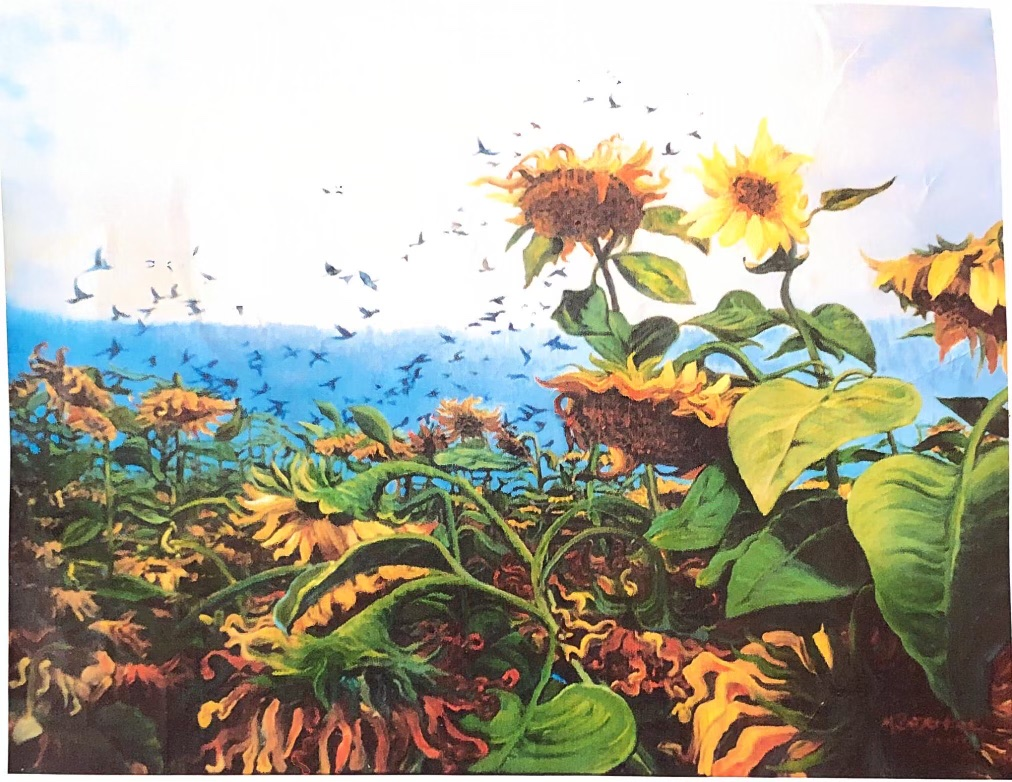
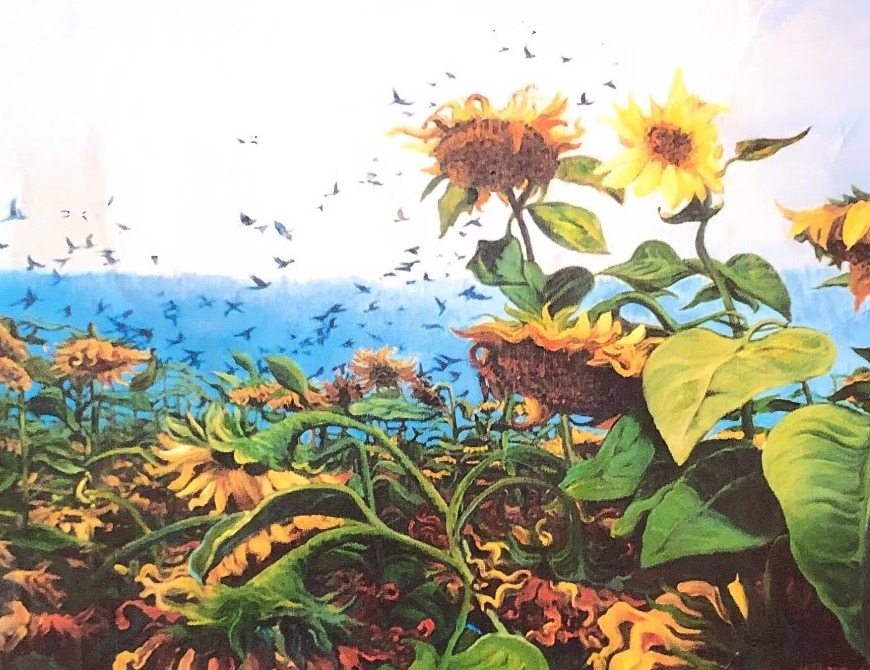
Add 12 new artworks, album covers, music photos, and YouTube links
Expanded gallery with trains, tugboat, B-17, kimono, garden, seaplane,
and more. Added Queensryche and Heir Apparent (30th Anniversary) album
covers to music section. Added black light gallery (Jethro Tull, Blue
Oyster Cult), Matt the Hoopla live photos and YouTube links. Cropped
photos to isolate artwork from scan borders.

diff --git a/index.html b/index.html
@@ -35,7 +35,7 @@
   <section class="quote-section reveal">
     <div class="quote-mark" aria-hidden="true">&ldquo;</div>
     <blockquote>
-      One of the wonderful parts about living with Matt's paintings is that I see new things every time I look at the picture. There are so many dimensions, so many little areas of magic, that I rediscover his work constantly.
+      &ldquo;One of the wonderful parts about living with Matt's paintings is that I see new things every time I look at the picture. There are so many dimensions, so many little areas of magic, that I rediscover his work constantly.&rdquo;
     </blockquote>
   </section>
 
@@ -73,6 +73,66 @@
         </div>
         <figcaption>Lily Pond</figcaption>
       </figure>
+      <figure class="gallery-item reveal" data-delay="2">
+        <div class="gallery-frame">
+          <img src="images/artwork-10.jpg" alt="Locomotive 8325, a blue and gray diesel train engine" loading="lazy">
+        </div>
+        <figcaption>Engine 8325</figcaption>
+      </figure>
+      <figure class="gallery-item reveal" data-delay="0">
+        <div class="gallery-frame">
+          <img src="images/artwork-6.jpg" alt="Retro diner with a classic car mounted on the roof and red umbrellas" loading="lazy">
+        </div>
+        <figcaption>Zesto</figcaption>
+      </figure>
+      <figure class="gallery-item reveal" data-delay="1">
+        <div class="gallery-frame">
+          <img src="images/artwork-9.jpg" alt="Red and white tugboat in a Pacific Northwest harbor" loading="lazy">
+        </div>
+        <figcaption>Tugboat</figcaption>
+      </figure>
+      <figure class="gallery-item reveal" data-delay="2">
+        <div class="gallery-frame">
+          <img src="images/artwork-12.jpg" alt="B-17 Flying Fortress bomber with nose art on a sunny tarmac" loading="lazy">
+        </div>
+        <figcaption>B-17 Flying Fortress</figcaption>
+      </figure>
+      <figure class="gallery-item reveal" data-delay="0">
+        <div class="gallery-frame">
+          <img src="images/artwork-11.jpg" alt="Ballard streetscape in autumn with a fire hydrant and golden trees" loading="lazy">
+        </div>
+        <figcaption>Ballard Street</figcaption>
+      </figure>
+      <figure class="gallery-item reveal" data-delay="1">
+        <div class="gallery-frame">
+          <img src="images/artwork-13.jpg" alt="Garden statue among pink and purple flowers" loading="lazy">
+        </div>
+        <figcaption>Garden Madonna</figcaption>
+      </figure>
+      <figure class="gallery-item reveal" data-delay="2">
+        <div class="gallery-frame">
+          <img src="images/artwork-14.jpg" alt="Girl in a red kimono holding a decorated fan" loading="lazy">
+        </div>
+        <figcaption>Red Kimono</figcaption>
+      </figure>
+      <figure class="gallery-item reveal" data-delay="0">
+        <div class="gallery-frame">
+          <img src="images/artwork-17.jpg" alt="Seaplane silhouette against a vivid red and orange sunset over water" loading="lazy">
+        </div>
+        <figcaption>Seaplane at Sunset</figcaption>
+      </figure>
+      <figure class="gallery-item reveal" data-delay="1">
+        <div class="gallery-frame">
+          <img src="images/artwork-7.jpg" alt="Santa Claus walking past a whimsical red building" loading="lazy">
+        </div>
+        <figcaption>Christmas on the Farm</figcaption>
+      </figure>
+      <figure class="gallery-item reveal" data-delay="2">
+        <div class="gallery-frame">
+          <img src="images/artwork-8.jpg" alt="Organist playing a theater pipe organ with a silent film actress projected above" loading="lazy">
+        </div>
+        <figcaption>The Organist</figcaption>
+      </figure>
     </div>
   </section>
 
@@ -106,11 +166,63 @@
     <div class="music-layout">
       <h2 class="section-title reveal"><span>Music &amp; Album Art</span></h2>
       <div class="music-content reveal">
-        <p>Before dedicating himself to painting full-time, Matt's art career began in the Seattle metal scene of the 1980s. He created the cover illustration for <strong>Queensr&yuml;che's debut album <em>The Warning</em></strong> (1984) and the original artwork and logo for <strong>Heir Apparent's <em>Graceful Inheritance</em></strong> (1985) &mdash; his cover concept was later featured on the 30th Anniversary Edition LP reissue.</p>
+        <p>Before dedicating himself to painting full-time, Matt's art career began in the Seattle metal scene of the 1980s. He created the cover illustration for <strong>Queensr&yuml;che's debut album <em>The Warning</em></strong> (1984) and the original artwork and logo for <strong>Heir Apparent's <em>Graceful Inheritance</em></strong> (1986) &mdash; his cover concept was later featured on the 30th Anniversary Edition LP reissue.</p>
 
-        <p>Beyond painting, Matt has created black light artworks &mdash; gesso and ultraviolet tempera on black paper &mdash; depicting early 1970s rock musicians.</p>
+        <div class="album-covers">
+          <figure>
+            <img src="images/album-the-warning.jpg" alt="Queensryche - The Warning album cover, illustrated by Matt Bazemore" loading="lazy">
+            <figcaption>Queensr&yuml;che &mdash; The Warning (1984)</figcaption>
+          </figure>
+          <figure>
+            <img src="images/album-graceful-inheritance.jpg" alt="Heir Apparent - Graceful Inheritance album cover, illustrated by Matt Bazemore" loading="lazy">
+            <figcaption>Heir Apparent &mdash; Graceful Inheritance (30th Anniversary Edition)</figcaption>
+          </figure>
+        </div>
 
-        <p>Matt is also a talented drummer who has played since high school. He and his brother Don Bazemore Jr. performed together in <strong>Matt the Hoopla</strong>.</p>
+        <p>Beyond painting, Matt has created black light artworks &mdash; gesso and ultraviolet tempera on black paper &mdash; depicting early 1970s rock musicians:</p>
+
+        <div class="blacklight-gallery">
+          <figure class="gallery-item" data-delay="0">
+            <div class="gallery-frame">
+              <img src="images/artwork-15.jpg" alt="Jethro Tull's Ian Anderson playing flute on stage, rendered in black light paint" loading="lazy">
+            </div>
+            <figcaption>Jethro Tull</figcaption>
+          </figure>
+          <figure class="gallery-item" data-delay="1">
+            <div class="gallery-frame">
+              <img src="images/artwork-16.jpg" alt="Blue Oyster Cult performing on stage, rendered in blue and purple black light paint" loading="lazy">
+            </div>
+            <figcaption>Blue &Ouml;yster Cult</figcaption>
+          </figure>
+        </div>
+
+        <p>Matt is also a talented drummer who has played since high school. He and his brother Don Bazemore Jr. performed together in <strong>Matt the Hoopla</strong>. Watch them play:</p>
+
+        <div class="video-links">
+          <a href="https://www.youtube.com/watch?v=E9E9QdnNPu4" target="_blank" rel="noopener">
+            <svg width="18" height="18" viewBox="0 0 24 24" fill="currentColor"><path d="M23.498 6.186a2.996 2.996 0 0 0-2.112-2.12C19.505 3.546 12 3.546 12 3.546s-7.505 0-9.386.52A2.996 2.996 0 0 0 .502 6.186C0 8.07 0 12 0 12s0 3.93.502 5.814a2.996 2.996 0 0 0 2.112 2.12c1.881.52 9.386.52 9.386.52s7.505 0 9.386-.52a2.996 2.996 0 0 0 2.112-2.12C24 15.93 24 12 24 12s0-3.93-.502-5.814z"/><path d="M9.545 15.568V8.432L15.818 12l-6.273 3.568z" fill="#fff"/></svg>
+            Matt the Hoopla Live
+          </a>
+          <a href="https://www.youtube.com/watch?v=JxC1whvCfL4" target="_blank" rel="noopener">
+            <svg width="18" height="18" viewBox="0 0 24 24" fill="currentColor"><path d="M23.498 6.186a2.996 2.996 0 0 0-2.112-2.12C19.505 3.546 12 3.546 12 3.546s-7.505 0-9.386.52A2.996 2.996 0 0 0 .502 6.186C0 8.07 0 12 0 12s0 3.93.502 5.814a2.996 2.996 0 0 0 2.112 2.12c1.881.52 9.386.52 9.386.52s7.505 0 9.386-.52a2.996 2.996 0 0 0 2.112-2.12C24 15.93 24 12 24 12s0-3.93-.502-5.814z"/><path d="M9.545 15.568V8.432L15.818 12l-6.273 3.568z" fill="#fff"/></svg>
+            Matt the Hoopla Live II
+          </a>
+        </div>
+
+        <div class="music-photos">
+          <figure>
+            <img src="images/matt-heir-apparent.jpg" alt="Matt Bazemore holding the Heir Apparent Graceful Inheritance 30th Anniversary LPs featuring his cover art" loading="lazy">
+            <figcaption>Matt with the Graceful Inheritance LPs</figcaption>
+          </figure>
+          <figure>
+            <img src="images/matt-drums.jpg" alt="Matt Bazemore playing drums at Bogarts, wearing a Matt the Hoopla t-shirt" loading="lazy">
+            <figcaption>Matt on drums at Bogarts</figcaption>
+          </figure>
+          <figure>
+            <img src="images/matt-the-hoopla-live.jpg" alt="Matt the Hoopla performing live" loading="lazy">
+            <figcaption>Matt the Hoopla</figcaption>
+          </figure>
+        </div>
       </div>
     </div>
   </section>

diff --git a/style.css b/style.css
@@ -417,7 +417,7 @@ strong {
 }
 
 .music-layout {
-  max-width: 680px;
+  max-width: 780px;
   margin: 0 auto;
   position: relative;
   z-index: 1;
@@ -439,6 +439,111 @@ strong {
 
 .music-content strong {
   color: var(--cream);
+}
+
+.blacklight-gallery {
+  display: grid;
+  grid-template-columns: 1fr 1fr;
+  gap: 1.5rem;
+  margin: 2rem 0;
+}
+
+.blacklight-gallery .gallery-frame {
+  background: #000;
+}
+
+.blacklight-gallery figcaption {
+  color: rgba(242, 237, 228, 0.45);
+}
+
+.album-covers {
+  display: grid;
+  grid-template-columns: 1fr 1fr;
+  gap: 1.5rem;
+  margin: 2rem 0;
+}
+
+.album-covers figure {
+  text-align: center;
+}
+
+.album-covers img {
+  width: 100%;
+  max-width: 280px;
+  display: block;
+  margin: 0 auto;
+  box-shadow: 0 4px 24px rgba(0, 0, 0, 0.4);
+}
+
+.album-covers figcaption {
+  margin-top: 0.7rem;
+  font-size: 0.82rem;
+  font-style: italic;
+  color: rgba(242, 237, 228, 0.5);
+}
+
+.video-links {
+  display: flex;
+  gap: 1.2rem;
+  margin: 1.2rem 0 0.5rem;
+  flex-wrap: wrap;
+}
+
+.video-links a {
+  display: inline-flex;
+  align-items: center;
+  gap: 0.5rem;
+  padding: 0.6rem 1.2rem;
+  border: 1px solid rgba(242, 237, 228, 0.2);
+  color: var(--cream);
+  font-size: 0.85rem;
+  letter-spacing: 0.05em;
+  font-family: var(--font-body);
+  transition: all 0.3s ease;
+}
+
+.video-links a:hover {
+  border-color: rgba(242, 237, 228, 0.5);
+  background: rgba(242, 237, 228, 0.08);
+}
+
+.video-links svg {
+  flex-shrink: 0;
+  color: #ff4444;
+}
+
+.music-photos {
+  display: grid;
+  grid-template-columns: repeat(3, 1fr);
+  gap: 1.5rem;
+  margin: 2rem 0 0;
+}
+
+@media (max-width: 700px) {
+  .music-photos {
+    grid-template-columns: 1fr 1fr;
+  }
+}
+
+.music-photos img {
+  width: 100%;
+  display: block;
+  box-shadow: 0 4px 20px rgba(0, 0, 0, 0.3);
+}
+
+.music-photos figcaption {
+  margin-top: 0.7rem;
+  font-size: 0.82rem;
+  font-style: italic;
+  color: rgba(242, 237, 228, 0.45);
+}
+
+@media (max-width: 500px) {
+  .blacklight-gallery,
+  .album-covers,
+  .music-photos {
+    grid-template-columns: 1fr;
+  }
 }
 
 /* ── Connect ───────────────────────────────────────── */
